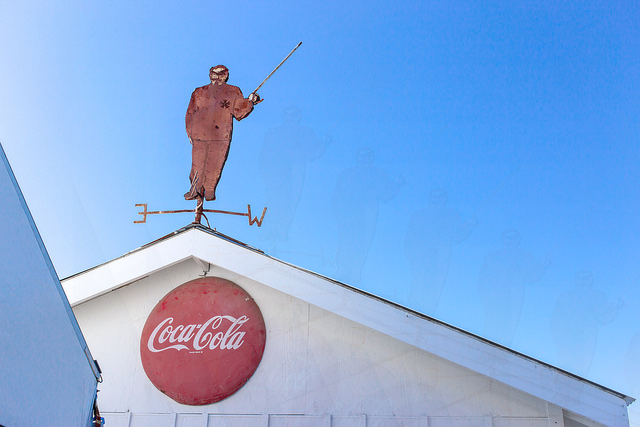
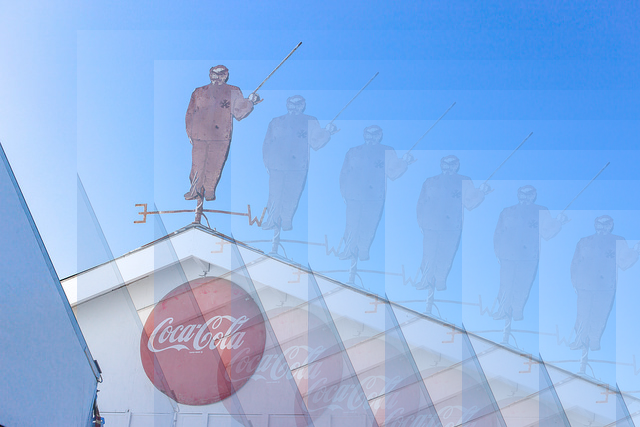
Boosts / PrismBurst

diff --git a/examples/basic.go b/examples/basic.go
@@ -15,73 +15,109 @@ func main() {
 	check(err)
 	gl.Write(f)
 
-	gl, err = glitch.NewGlitch("./example.jpg")
-	check(err)
-	gl.Seed(4)
-	gl.VerticalTransposeInput()
-	f, err = os.Create("./VerticalTransposeInput.png")
-	check(err)
-	gl.Write(f)
+	// gl, err = glitch.NewGlitch("./example.jpg")
+	// check(err)
+	// gl.Seed(4)
+	// gl.VerticalTransposeInput()
+	// f, err = os.Create("./VerticalTransposeInput.png")
+	// check(err)
+	// gl.Write(f)
 
-	gl, err = glitch.NewGlitch("./example.jpg")
-	check(err)
-	gl.Seed(1)
-	gl.TransposeInput()
-	f, err = os.Create("./TransposeInput.png")
-	check(err)
-	gl.Write(f)
+	// gl, err = glitch.NewGlitch("./example.jpg")
+	// check(err)
+	// gl.Seed(1)
+	// gl.TransposeInput()
+	// f, err = os.Create("./TransposeInput.png")
+	// check(err)
+	// gl.Write(f)
 
-	gl, err = glitch.NewGlitch("./example.jpg")
-	check(err)
-	gl.Seed(200)
-	gl.Copy()
-	gl.GhostStreach()
-	f, err = os.Create("./GhostStreach.png")
-	check(err)
-	gl.Write(f)
+	// gl, err = glitch.NewGlitch("./example.jpg")
+	// check(err)
+	// gl.Seed(12)
+	// gl.Copy()
+	// gl.GhostStreach()
+	// f, err = os.Create("./GhostStreach.png")
+	// check(err)
+	// gl.Write(f)
+
+	// gl, err = glitch.NewGlitch("./example.jpg")
+	// check(err)
+	// gl.Seed(100)
+	// gl.Copy()
+	// gl.CompressionGhost()
+	// f, err = os.Create("./CompressionGhost.png")
+	// check(err)
+	// gl.Write(f)
+
+	// gl, err = glitch.NewGlitch("./example.jpg")
+	// check(err)
+	// gl.Seed(100)
+	// gl.Copy()
+	// gl.HalfLifeLeft()
+	// f, err = os.Create("./HalfLifeLeft.png")
+	// check(err)
+	// gl.Write(f)
+
+	// gl, err = glitch.NewGlitch("./example.jpg")
+	// check(err)
+	// gl.Seed(100)
+	// gl.Copy()
+	// gl.HalfLifeRight()
+	// f, err = os.Create("./HalfLifeRight.png")
+	// check(err)
+	// gl.Write(f)
+
+	// gl, err = glitch.NewGlitch("./example.jpg")
+	// check(err)
+	// gl.Seed(100)
+	// gl.Copy()
+	// gl.ChannelShiftLeft()
+	// f, err = os.Create("./ChannelShiftLeft.png")
+	// check(err)
+	// gl.Write(f)
+
+	// gl, err = glitch.NewGlitch("./example.jpg")
+	// check(err)
+	// gl.Seed(100)
+	// gl.Copy()
+	// gl.ChannelShiftRight()
+	// f, err = os.Create("./ChannelShiftRight.png")
+	// check(err)
+	// gl.Write(f)
+
+	// gl, err = glitch.NewGlitch("./example.jpg")
+	// check(err)
+	// gl.Seed(100)
+	// gl.Copy()
+	// gl.RedBoost()
+	// f, err = os.Create("./RedBoost.png")
+	// check(err)
+	// gl.Write(f)
+
+	// gl, err = glitch.NewGlitch("./example.jpg")
+	// check(err)
+	// gl.Seed(100)
+	// gl.Copy()
+	// gl.GreenBoost()
+	// f, err = os.Create("./GreenBoost.png")
+	// check(err)
+	// gl.Write(f)
+
+	// gl, err = glitch.NewGlitch("./example.jpg")
+	// check(err)
+	// gl.Seed(100)
+	// gl.Copy()
+	// gl.BlueBoost()
+	// f, err = os.Create("./BlueBoost.png")
+	// check(err)
+	// gl.Write(f)
 
 	gl, err = glitch.NewGlitch("./example.jpg")
 	check(err)
 	gl.Seed(100)
 	gl.Copy()
-	gl.CompressionGhost()
-	f, err = os.Create("./CompressionGhost.png")
-	check(err)
-	gl.Write(f)
-
-	gl, err = glitch.NewGlitch("./example.jpg")
-	check(err)
-	gl.Seed(100)
-	gl.Copy()
-	gl.HalfLifeLeft()
-	f, err = os.Create("./HalfLifeLeft.png")
-	check(err)
-	gl.Write(f)
-
-	gl, err = glitch.NewGlitch("./example.jpg")
-	check(err)
-	gl.Seed(100)
-	gl.Copy()
-	gl.HalfLifeRight()
-	f, err = os.Create("./HalfLifeRight.png")
-	check(err)
-	gl.Write(f)
-
-	gl, err = glitch.NewGlitch("./example.jpg")
-	check(err)
-	gl.Seed(100)
-	gl.Copy()
-	gl.ChannelShiftLeft()
-	f, err = os.Create("./ChannelShiftLeft.png")
-	check(err)
-	gl.Write(f)
-
-	gl, err = glitch.NewGlitch("./example.jpg")
-	check(err)
-	gl.Seed(100)
-	gl.Copy()
-	gl.ChannelShiftRight()
-	f, err = os.Create("./ChannelShiftRight.png")
+	gl.PrismBurst()
+	f, err = os.Create("./PrismBurst.png")
 	check(err)
 	gl.Write(f)
 }

diff --git a/glitch.go b/glitch.go
@@ -13,7 +13,7 @@ import (
 )
 
 // MAXC is the maxium value returned by RGBA() will have
-const MAXC = 65535.0
+const MAXC = 1<<16 - 1
 
 // Glitch represents the two images needed to produce a glitch
 type Glitch struct {
@@ -265,7 +265,7 @@ func (gl *Glitch) GhostStreach() {
 	ghosts := rand.Intn(b.Dy()/10) + 1
 	stepX := rand.Intn(b.Dx()/ghosts) - (b.Dx() / ghosts * 2)
 	stepY := rand.Intn(b.Dy()/ghosts) - (b.Dy() / ghosts * 2)
-	alpha := uint8(rand.Intn(255 / ghosts))
+	alpha := uint8(rand.Intn(255 / 2))
 
 	// TODO: Replace with struct
 	m := image.NewRGBA(image.Rect(0, 0, b.Dx(), b.Dy()))
@@ -275,6 +275,91 @@ func (gl *Glitch) GhostStreach() {
 	// Red
 	for i := 1; i < ghosts; i++ {
 		draw.DrawMask(gl.Output, b, gl.Output, image.Pt(stepX*i, stepY*i), m, image.ZP, draw.Over)
+	}
+}
+
+// RedBoost boost the red color of the image
+func (gl *Glitch) RedBoost() {
+	b := gl.Bounds
+
+	for y := b.Min.Y; y < b.Max.Y; y++ {
+		for x := b.Min.X; x < b.Max.X; x++ {
+			or, og, ob, oa := gl.Output.At(x, y).RGBA()
+			a := MAXC - (oa * or / MAXC)
+			sc := color.RGBA64{
+				R: uint16((or*a + or*oa) / MAXC),
+				G: uint16(og),
+				B: uint16(ob),
+				A: uint16(oa),
+			}
+			gl.Output.Set(x, y, sc)
+		}
+	}
+}
+
+// GreenBoost boost the Green color of the image
+func (gl *Glitch) GreenBoost() {
+	b := gl.Bounds
+
+	for y := b.Min.Y; y < b.Max.Y; y++ {
+		for x := b.Min.X; x < b.Max.X; x++ {
+			or, og, ob, oa := gl.Output.At(x, y).RGBA()
+			a := MAXC - (oa * og / MAXC)
+			sc := color.RGBA64{
+				R: uint16(or),
+				G: uint16((og*a + og*oa) / MAXC),
+				B: uint16(ob),
+				A: uint16(oa),
+			}
+			gl.Output.Set(x, y, sc)
+		}
+	}
+}
+
+// BlueBoost boost the Blue color of the image
+func (gl *Glitch) BlueBoost() {
+	b := gl.Bounds
+
+	for y := b.Min.Y; y < b.Max.Y; y++ {
+		for x := b.Min.X; x < b.Max.X; x++ {
+			or, og, ob, oa := gl.Output.At(x, y).RGBA()
+			a := MAXC - (oa * ob / MAXC)
+			sc := color.RGBA64{
+				R: uint16(or),
+				G: uint16(og),
+				B: uint16((ob*a + ob*oa) / MAXC),
+				A: uint16(oa),
+			}
+			gl.Output.Set(x, y, sc)
+		}
+	}
+}
+
+// PrismBurst spreads channesl around the original image
+func (gl *Glitch) PrismBurst() {
+	b := gl.Bounds
+	offset := rand.Intn(b.Dy()/10) + 1
+	alpha := uint32(rand.Intn(MAXC))
+
+	var out color.RGBA64
+	for y := b.Min.Y; y < b.Max.Y; y++ {
+		for x := b.Min.X; x < b.Max.X; x++ {
+			sr, sg, sb, sa := gl.Output.At(x, y).RGBA()
+
+			dr, _, _, _ := gl.Output.At(x+offset, y+offset).RGBA()
+			_, dg, _, _ := gl.Output.At(x-offset, y+offset).RGBA()
+			_, _, db, _ := gl.Output.At(x+offset, y-offset).RGBA()
+			_, _, _, da := gl.Output.At(x-offset, y-offset).RGBA()
+
+			a := MAXC - (sa * alpha / MAXC)
+
+			out.R = uint16((dr*a + sr*alpha) / MAXC)
+			out.G = uint16((dg*a + sg*alpha) / MAXC)
+			out.B = uint16((db*a + sb*alpha) / MAXC)
+			out.A = uint16((da*a + sa*alpha) / MAXC)
+
+			gl.Output.Set(x, y, &out)
+		}
 	}
 }
 

diff --git a/README.md b/README.md
@@ -90,3 +90,27 @@ gl.VerticalTransposeInput()
 
 
 ![channelshiftright](https://cloud.githubusercontent.com/assets/12866/21326314/ee383d32-c5de-11e6-8c3d-fff32d2a97a1.png)
+
+---
+
+### BlueBoost
+
+![blueboost](https://cloud.githubusercontent.com/assets/12866/21365546/999dc5ea-c6aa-11e6-886f-f773cea07404.png)
+
+---
+
+### GreenBoost
+
+![greenboost](https://cloud.githubusercontent.com/assets/12866/21365549/9b4d31f0-c6aa-11e6-839e-44d57fa6dcea.png)
+
+---
+
+### RedBoost
+
+![redboost](https://cloud.githubusercontent.com/assets/12866/21365554/9d56cc18-c6aa-11e6-97fa-d5d934af59b8.png)
+
+---
+
+### PrismBurst
+
+![prismburst](https://cloud.githubusercontent.com/assets/12866/21365553/9d419a00-c6aa-11e6-811c-7979399445ba.png)
